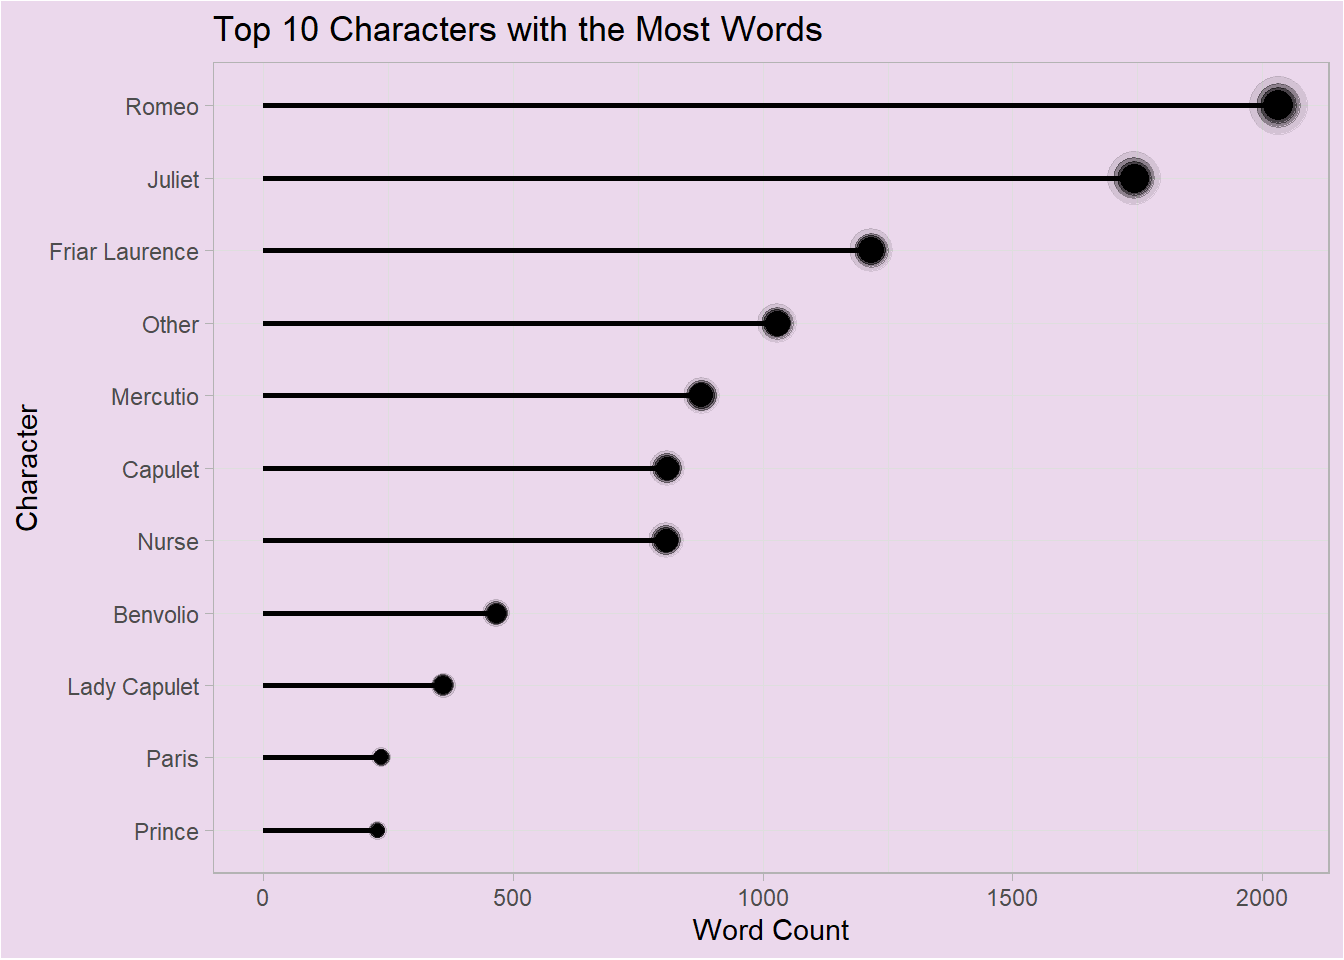
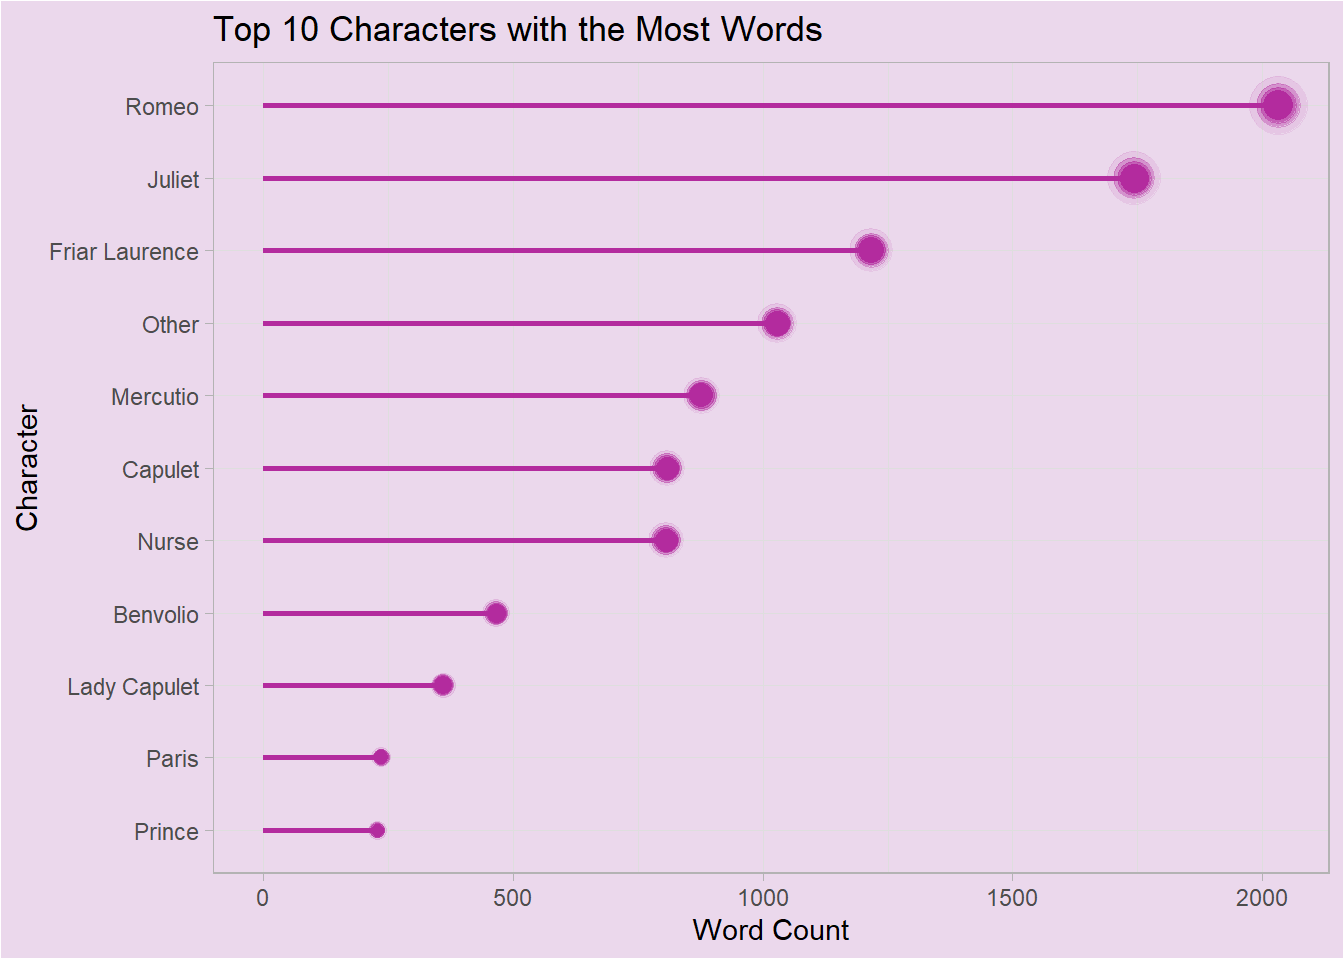
update colour

diff --git a/content/blog/Romeo-Romeo/romeo.md b/content/blog/Romeo-Romeo/romeo.md
@@ -33,7 +33,7 @@ For stony limits cannot hold love out."\
 
 
 <div class="figure" style="text-align: center">
-<img src="/blog/Romeo-Romeo/romeo/romeo_files/figure-html/unnamed-chunk-2-1.png" alt="AI Generated Art" width="512" />
+<img src="/blog/Romeo-Romeo/romeo_files/figure-html/unnamed-chunk-2-1.png" alt="AI Generated Art" width="512" />
 <p class="caption"><span id="fig:unnamed-chunk-2"></span>Figure 1: AI Generated Art</p>
 </div>
 
@@ -69,7 +69,7 @@ The words **Thou, Thy,** and **Thee** dominate the dialogue in Romeo and Juliet.
 
 {{< panelset class = "greetings" >}}
 {{< panel name = "Top 25 Words" >}}
-<img src="/blog/Romeo-Romeo/romeo/romeo_files/figure-html/unnamed-chunk-4-1.png" width="672" />
+<img src="/blog/Romeo-Romeo/romeo_files/figure-html/unnamed-chunk-4-1.png" width="672" />
 {{< /panel >}}
 {{< panel name = "Code" >}}
 
@@ -79,10 +79,10 @@ top_word <- romeo_juliet_token %>%
   top_n(25) %>% 
   mutate(word = fct_reorder(str_to_title(word), n)) %>% 
   ggplot(aes(n, word)) +
-  geom_point_blur(aes(y = word, size = n, blur_size = n), 
+  geom_point_blur(aes(y = word, size = n, blur_size = n), colour = "#B32B9E",
                   blur_steps = 3, 
                   show.legend = FALSE) +
-  geom_segment(aes(x = n, xend = 0, y = word, yend = word), linewidth = 1) +
+  geom_segment(aes(x = n, xend = 0, y = word, yend = word), linewidth = 1, colour = "#B32B9E") +
   scale_blur_size_continuous(range = c(1, 5)) +
   scale_size(range = c(2, 5)) +
   theme(plot.background = element_rect(fill = "#EBD8EC"),
@@ -108,7 +108,7 @@ No surprises here—being the title characters, **Romeo** and **Juliet** have th
 
 {{< panelset class = "greetings" >}}
 {{< panel name = "Top 10 Characters" >}}
-<img src="/blog/Romeo-Romeo/romeo/romeo_files/figure-html/unnamed-chunk-6-1.png" width="672" />
+<img src="/blog/Romeo-Romeo/romeo_files/figure-html/unnamed-chunk-6-1.png" width="672" />
 
 {{< /panel >}}
 {{< panel name = "Code" >}}
@@ -123,10 +123,10 @@ character <- romeo_juliet_token %>%
   arrange(desc(n)) %>% 
   mutate(id = row_number()) %>% 
   ggplot(aes(n, character)) +
-  geom_point_blur(aes(y = character, size = n, blur_size = n), 
+  geom_point_blur(aes(y = character, size = n, blur_size = n), colour = "#B32B9E",
                   blur_steps = 3, 
                   show.legend = FALSE) +
-  geom_segment(aes(x = n, xend = 0, y = character, yend = character), linewidth = 1) +
+  geom_segment(aes(x = n, xend = 0, y = character, yend = character), linewidth = 1, colour = "#B32B9E") +
   scale_blur_size_continuous(range = c(1, 5)) +
   scale_size(range = c(2, 5)) +
   theme(plot.background = element_rect(fill = "#EBD8EC"),
@@ -156,7 +156,7 @@ Juliet’s most frequent words in the play are *Thou*, *Romeo*, and *Thee*, refl
 {{< panelset class = "greetings" >}}
 {{< panel name = "Romeo and Juliet" >}}
 
-<img src="/blog/Romeo-Romeo/romeo/romeo_files/figure-html/unnamed-chunk-8-1.png" width="672" />
+<img src="/blog/Romeo-Romeo/romeo_files/figure-html/unnamed-chunk-8-1.png" width="672" />
 
 {{< /panel >}}
 {{< panel name = "Code" >}}
@@ -206,7 +206,7 @@ Words like **wall**, **heads**, **maids**, **thumb**, **bite**, **swords**, **st
 {{< panelset class = "greetings" >}}
 {{< panel name = "Begining and End Words" >}}
 
-<img src="/blog/Romeo-Romeo/romeo/romeo_files/figure-html/unnamed-chunk-10-1.png" width="672" />
+<img src="/blog/Romeo-Romeo/romeo_files/figure-html/unnamed-chunk-10-1.png" width="672" />
 
 {{< /panel >}}
 {{< panel name = "Code" >}}
@@ -284,7 +284,7 @@ The chart highlights how Shakespeare masterfully shifts the play’s tone and fo
 
 {{< panelset class = "greetings" >}}
 {{< panel name = "Trend" >}}
-<img src="/blog/Romeo-Romeo/romeo/romeo_files/figure-html/unnamed-chunk-12-1.png" width="672" />
+<img src="/blog/Romeo-Romeo/romeo_files/figure-html/unnamed-chunk-12-1.png" width="672" />
 {{< /panel >}}
 {{< panel name = "Code" >}}
 
@@ -325,7 +325,7 @@ Each decile has some some words that peak within it.
 
 {{< panelset class = "greetings" >}}
 {{< panel name = "Peak" >}}
-<img src="/blog/Romeo-Romeo/romeo/romeo_files/figure-html/unnamed-chunk-14-1.png" width="672" />
+<img src="/blog/Romeo-Romeo/romeo_files/figure-html/unnamed-chunk-14-1.png" width="672" />
 {{< /panel >}}
 {{< panel name = "Code" >}}
 
@@ -381,7 +381,7 @@ In conclusion, this Bing sentiment analysis highlights the emotional journey in 
 
 {{< panelset class = "greetings" >}}
 {{< panel name = "Sentiment Analysis" >}}
-<img src="/blog/Romeo-Romeo/romeo/romeo_files/figure-html/unnamed-chunk-16-1.png" width="672" />
+<img src="/blog/Romeo-Romeo/romeo_files/figure-html/unnamed-chunk-16-1.png" width="672" />
 {{< /panel >}}
 {{< panel name = "Code" >}}
 
